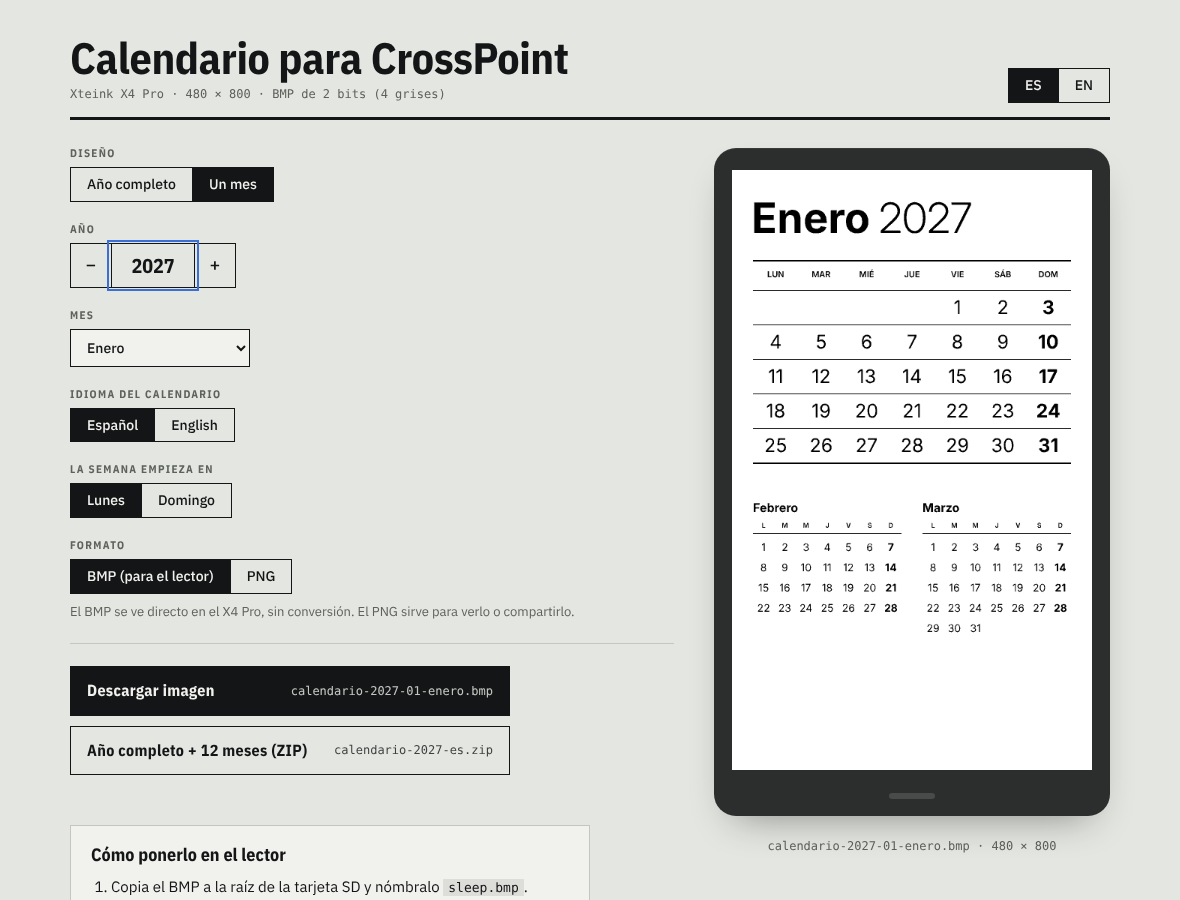
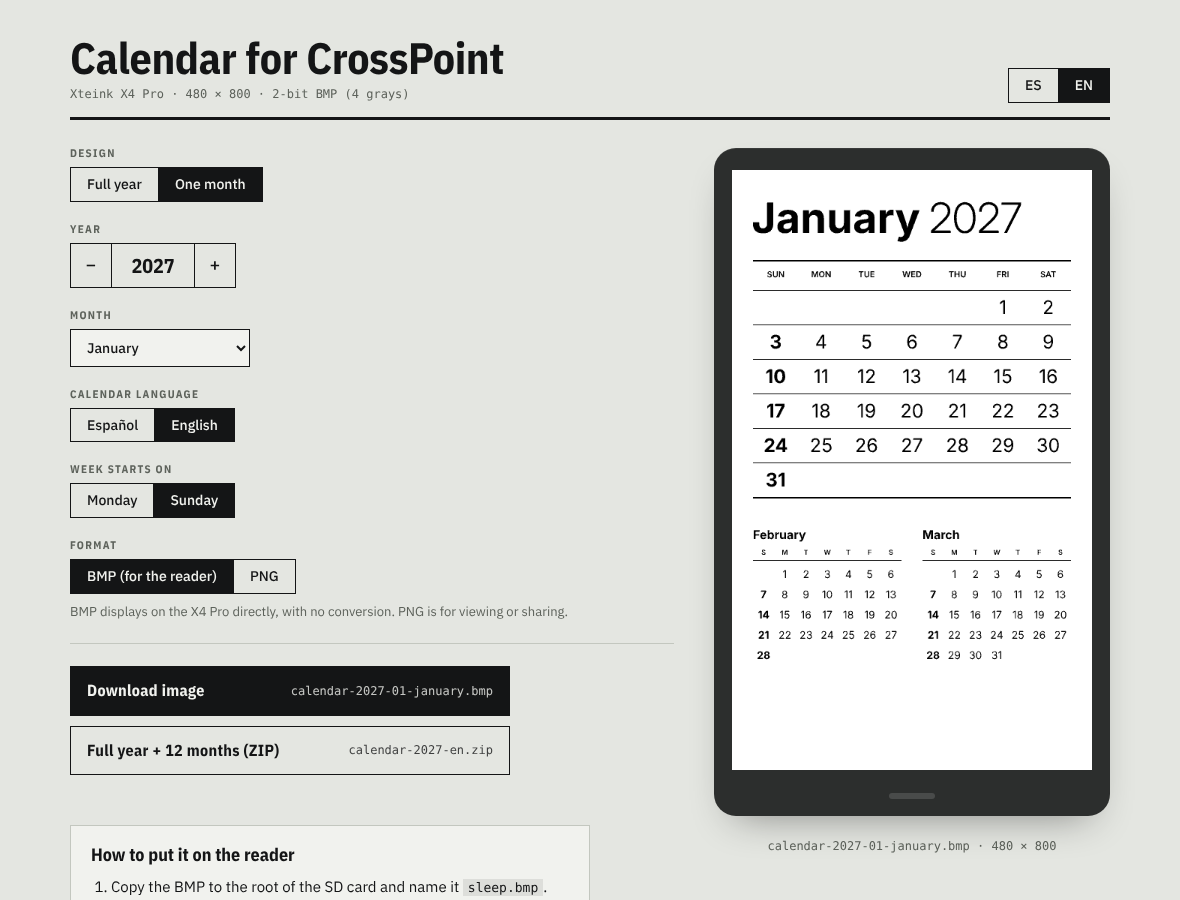
Show the English UI in the main README preview
The Spanish README keeps its own Spanish preview.

Claude-Session: https://claude.ai/code/session_01XucrxsDuxiyZxiYkhs2Wb3

diff --git a/README.es.md b/README.es.md
@@ -6,7 +6,7 @@ Un generador web de calendarios para la pantalla de reposo de [CrossPoint Reader
 
 *[Read in English](README.md)*
 
-![El generador](docs/preview.png)
+![El generador](docs/preview-es.png)
 
 Elige un diseño, un año y, si quieres, un mes. Descarga la imagen y cópiala a tu lector. Todo funciona en tu navegador: no hay servidor, no necesitas cuenta y no hay nada que instalar.
 
